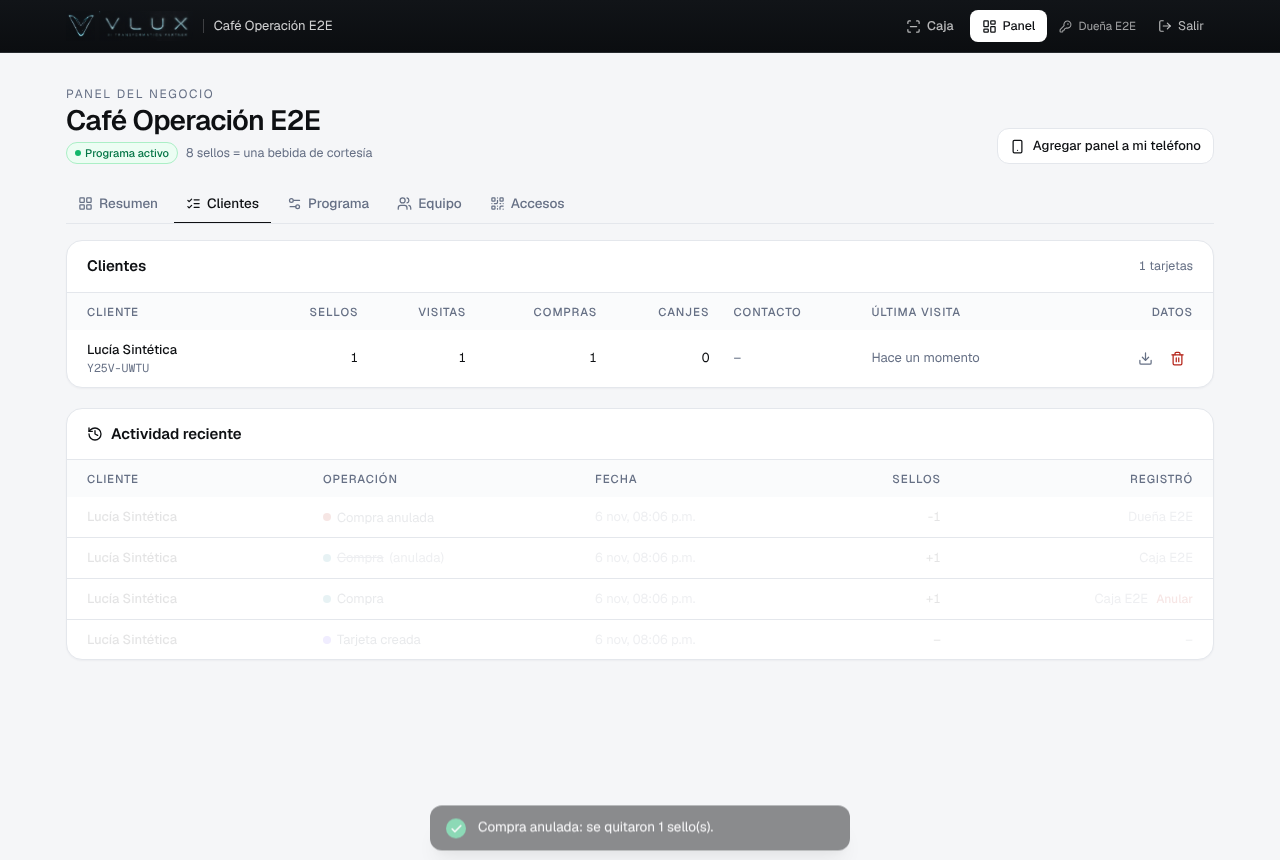
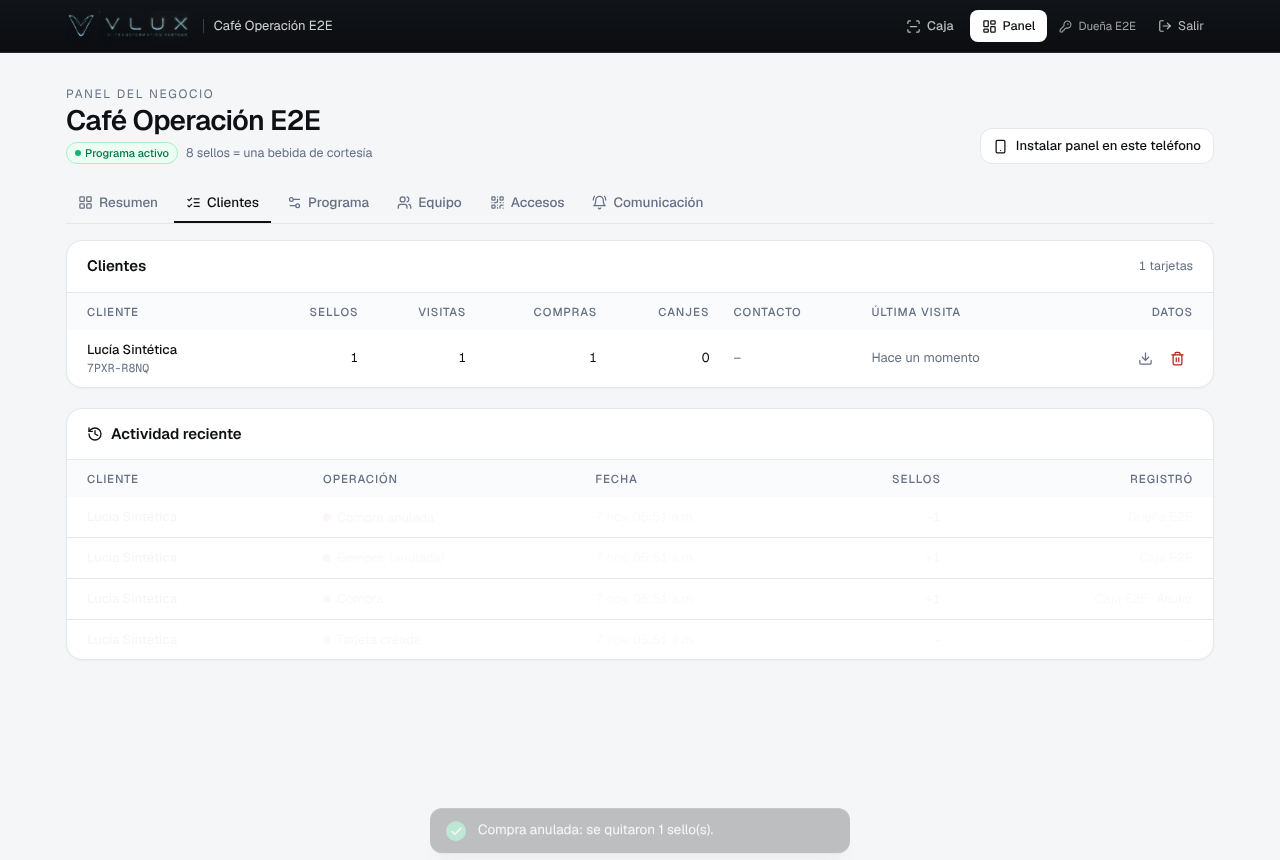
V0.4.6: resultados del despliegue en Preview y pruebas remotas
Claude-Session: https://claude.ai/code/session_01S7EQDbPufRzH18PKdnTG1c

diff --git a/docs/V046_DESPLIEGUE_PREVIEW.md b/docs/V046_DESPLIEGUE_PREVIEW.md
@@ -1,0 +1,43 @@
+# V0.4.6 · Despliegue en Preview y pruebas remotas
+
+Fecha: 2026-11-07 · Rama `v0.4.6` · commit `338c9dc` · solo Preview (target staging). Sin merge a `main` ni Production. Migración 0014 aplicada por Vlux en Supabase Preview antes del despliegue.
+
+## URLs
+| Proyecto | Deployment | URL fija | Alias de rama |
+|---|---|---|---|
+| Interno (Control Center, tras Vercel SSO) | `dpl_9ru8sBzgzzuy7XVEt9tSYuPoAdzn` · READY | https://vlux-loyalty-btmnj7uw3-vlux-s-projects.vercel.app | https://vlux-loyalty-git-v046-vlux-s-projects.vercel.app |
+| Público (demo) | `dpl_4V5HNUs8mxdNcAXCmNXXF9Vzr88X` · READY | https://vlux-loyalty-demo-ag01bdq6h-vlux-s-projects.vercel.app | https://vlux-loyalty-demo-git-v046-vlux-s-projects.vercel.app |
+
+## Pruebas remotas (solo lectura; sin crear negocios, sin correos, sin avisos)
+| # | Prueba | Resultado |
+|---|---|---|
+| R1 | `/api/health` en ambos | PASS 200 |
+| R2 | `Permissions-Policy` con `geolocation=(self)` en API y HTML | PASS |
+| R3 | `/api/public/push-config` sin llaves VAPID (ambos) | PASS `{"enabled":false,"publicKey":null}`: avisos apagados, la tarjeta lo explica |
+| R4 | `/api/internal/notifications/run` sin `CRON_SECRET` | PASS 401 en ambos (no hay `CRON_SECRET` en Vercel: la ruta siempre rechaza) |
+| R5 | Enlaces del dueño (`/public/businesses/:slug/access`) en el interno | PASS: base `https://vlux-loyalty-demo-vlux-s-projects.vercel.app` (PUBLIC_APP_URL), sin credenciales, nunca `localhost` |
+| R6 | Mismo endpoint en el público | PASS: base = dominio del propio despliegue, sin `localhost` |
+| R7 | Manifiesto del panel y de la caja de `cafe-demo-toluca` | PASS: `id`/`start_url` con `?negocio=`, íconos propios `/api/pwa/<slug>/icon/panel-*` y `caja-*`, rutas relativas (sin dominio fijo) |
+| R8 | `/activar` (activación presencial) sirve la app | PASS 200 con CSP |
+| R9 | Programa público con campo `location` nuevo | PASS (`location: null`, sin ubicación capturada) |
+| R10 | El público no expone `/api/admin/*` | PASS 404 |
+| R11 | `/api/public/demo` | PASS (habilitado, `vlux-demo`) |
+| B1 | BD: 8 negocios intactos; 0 suscripciones, 0 avisos, 0 citas | PASS |
+| B2 | BD: RLS activa en las 4 tablas nuevas; `vlux_app` solo SELECT/INSERT/UPDATE; 0 permisos a anon/authenticated/PUBLIC; `vlux_app` sin BYPASSRLS | PASS |
+| B3 | Vercel: no existen `VAPID_*`, `CRON_SECRET`, `EMAIL_PROVIDER` ni `SMTP_*` | PASS: ningún envío real posible |
+| B4 | `email_outbox`: 1 fila previa `pending` sin proveedor (no se envió) | Informativo |
+
+## No ejecutado en remoto (requiere la cuenta de Vlux con 2FA o un teléfono)
+Centro de accesos, código presencial de punta a punta, bienvenida e instalación, pestaña Comunicación. Están cubiertos localmente (E2E V0.4.6 27/27). Guía manual:
+1. Control Center → negocio demo → **Centro de accesos**: copiar el enlace permanente del dueño; confirmar que no lleva token.
+2. «Invitar dueño» → **Activación presencial**: anotar el código, abrir `/activar` en el teléfono, escribirlo y crear contraseña. El Control Center debe marcar «activado» solo.
+3. En el teléfono: bienvenida → «Instalar mi panel». Android: instalar; iPhone: Compartir → Agregar a inicio. Revisar ícono y nombre.
+4. Panel → pestaña **Comunicación**: debe decir que los avisos no están configurados y no dejar enviar promociones.
+5. Abrir la tarjeta de un cliente demo → «Mis notificaciones»: debe decir «todavía no están disponibles».
+
+## Historial de migraciones
+`schema_migrations`: 0001–0008 y 0011–0014. **0009 y 0010 siguen sin registro** aunque sus estructuras existen. **No ejecutar `scripts/migrate.ts up` contra Preview** hasta pegar `vlux-loyalty-v045/0009-0010_registrar_historial.sql` (solo 2 filas de historial): de lo contrario intentaría re-aplicar 0009/0010.
+
+## Regresiones sobre el commit desplegado (local, emulador de Vercel Output, 2026-11-07)
+V0.2 29/29 · V0.2.1 14/14 · V0.2.2 40/40 · V0.3 24 PASS + 1 BLOCKED heredado (K) · V0.4 35/35 · V0.4.2 36/36 · V0.4.3 42/42 · V0.4.5 26/26 · V0.4.4 OK · **V0.4.6 27/27**. Unitarias 65/65, integración 141/141.
+Las regresiones no se corren contra Preview: crean negocios y administradores, y la BD de Preview no debe recibir datos de prueba masivos.
